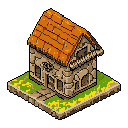
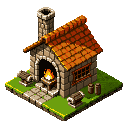
Bastion 10.4 : textes anglais et coréens, tests unitaires (démarrage, bulles, absence, navigation, images)
Claude-Session: https://claude.ai/code/session_0134j7sWg9jhpiCd4bBgd6QN

diff --git a/tests/v1040-bastion.test.js b/tests/v1040-bastion.test.js
@@ -1,0 +1,201 @@
+// v10.4 (partie 6) : le Bastion — le trouver (sous Équipe), le lancer (meilleurs ouvriers posés, chantier offert, une
+// seule fois, sauvegarde 10.3 au Bastion vide comprise), bulles par bâtiment, « Pendant ton absence » et
+// « Tout récupérer », et chaque illustration référencée présente sur le disque.
+import test from 'node:test';
+import assert from 'node:assert/strict';
+import { existsSync, readFileSync } from 'node:fs';
+import { createNewState, sanitizeState } from '../src/core/state.js';
+import { bastionOf, bastionTick, buildingLevel, startBuild, workerBonus } from '../src/core/bastion.js';
+import {
+  GIFT_MINUTES, awayReport, bastionUnused, collectAway, kickoffBastion, markTip, needsKickoff, noteAway, placedLine, tipSeen, tradeWord,
+} from '../src/core/bastion-start.js';
+import { BUILDINGS, RESEARCH } from '../src/data/bastion.js';
+import { MENUS, SUB_LABELS, navPath } from '../src/ui/nav.js';
+
+const T0 = Date.UTC(2026, 10, 21, 9);
+const HOUR = 3_600_000;
+const MIN = 60_000;
+// La partie du joueur : étape 186, 17 compagnons libres, Bastion jamais utilisé.
+const MANY = ['dwarf', 'pyromancer', 'barbarian', 'demon_queen', 'priestess', 'witch', 'high_priest', 'ranger', 'shadow', 'ninja', 'squire', 'lancer', 'azure_paladin', 'mercenary', 'rose_blade', 'elf_archer', 'archangel', 'ice_empress', 'sylvan_guardian', 'shadow_lord'];
+function player(stage = 186, allies = MANY) {
+  const s = createNewState(T0, 3);
+  s.maxStage = stage; s.stage = stage; s.records.bestStage = stage;
+  for (const id of allies) s.companions.owned[id] = { stars: 1, level: 1 };
+  s.companions.equipped = allies.slice(-3);
+  bastionTick(s, T0);
+  s.gold = 1e30; s.materials.shards = 1e6;
+  return s;
+}
+
+test('navigation : le Bastion est sous Équipe (Compagnons · Bastion · Expéditions), plus dans Profil', () => {
+  const team = MENUS.find((m) => m.id === 'team');
+  assert.deepEqual(team.tabs, ['companions', 'camp', 'expeditions']);
+  assert.equal(MENUS.find((m) => m.id === 'profile').tabs.includes('camp'), false);
+  assert.equal(MENUS.filter((m) => m.tabs.includes('camp')).length, 1);
+  assert.equal(SUB_LABELS.camp, 'Bastion');
+  assert.equal(navPath('camp'), 'Équipe › Bastion');
+  const ui = readFileSync(new URL('../src/ui/page.js', import.meta.url), 'utf8');
+  assert.match(ui, /PAGE_TABS = new Set\(\[[^\]]*'camp'/, 'le Bastion s\'ouvre en page plein écran');
+});
+
+test('démarrage : les meilleurs ouvriers selon le métier et la rareté, puis le chantier offert (15 min)', () => {
+  const s = player();
+  assert.ok(needsKickoff(s));
+  const gold = s.gold, shards = s.materials.shards;
+  const k = kickoffBastion(s, T0 + 1000);
+  assert.ok(k);
+  // Étape 186, Bastion niveau 1 : 2 places ; la Forge (construite) et la Bibliothèque (à construire) sont ouvertes.
+  assert.deepEqual(k.placed.map((p) => p.building), ['forge', 'library']);
+  const forge = k.placed.find((p) => p.building === 'forge');
+  assert.equal(forge.companionId, 'demon_queen', 'forgeronne légendaire : +40 %');
+  assert.equal(forge.pct, 40);
+  assert.equal(placedLine(forge), 'Reine démone, forgeronne : +40 %');
+  assert.equal(k.placed.find((p) => p.building === 'library').companionId, 'archangel');
+  // Aucun ouvrier possible ne ferait mieux que celui qui a été posé.
+  for (const p of k.placed) {
+    const best = MANY.filter((id) => !s.companions.equipped.includes(id)).map((id) => workerBonus(s, id, p.building).totalPct);
+    assert.equal(p.pct, Math.max(...best));
+  }
+  const b = bastionOf(s);
+  assert.equal(b.buildings.forge.worker, 'demon_queen');
+  // Chantier offert : la Bibliothèque (premier chantier, 15 min), sans rien payer.
+  assert.deepEqual({ building: k.build.building, level: k.build.level, ms: k.build.ms }, { building: 'library', level: 1, ms: GIFT_MINUTES * MIN });
+  assert.equal(GIFT_MINUTES, 15);
+  assert.ok(b.buildings.library.build);
+  assert.equal(s.gold, gold); assert.equal(s.materials.shards, shards);
+  // Une seule fois.
+  assert.equal(needsKickoff(s), false);
+  assert.equal(kickoffBastion(s, T0 + 2000), null);
+  bastionTick(s, T0 + 1000 + 15 * MIN);
+  assert.equal(buildingLevel(s, 'library'), 1);
+  // Même vidé ensuite, le Bastion ne se relance pas tout seul.
+  b.buildings.forge.worker = null; b.buildings.library.worker = null;
+  assert.equal(kickoffBastion(s, T0 + 20 * MIN), null);
+});
+
+test('démarrage : nouveau joueur à l\'étape 40 (Forge seule) — un ouvrier, chantier de la Forge ramené à 15 min', () => {
+  const s = player(40, ['dwarf', 'squire', 'priestess', 'ranger', 'mercenary']);
+  const k = kickoffBastion(s, T0);
+  assert.equal(k.placed.length, 1);
+  assert.equal(k.placed[0].companionId, 'dwarf');
+  assert.equal(placedLine(k.placed[0]), 'Nain guerrier, forgeron : +25 %');
+  assert.equal(k.build.building, 'forge');
+  assert.equal(k.build.ms, 15 * MIN);
+});
+
+test('démarrage : sans compagnon libre, rien n\'est marqué (on réessaiera à la prochaine ouverture)', () => {
+  const s = player(60, ['dwarf', 'squire']);
+  s.companions.equipped = ['dwarf', 'squire'];
+  assert.equal(kickoffBastion(s, T0), null);
+  assert.ok(needsKickoff(s));
+  s.companions.equipped = ['squire'];
+  assert.ok(kickoffBastion(s, T0 + 1000));
+});
+
+test('démarrage : une sauvegarde 10.3 au Bastion vide (ouvert, jamais utilisé) le reçoit aussi ; une partie déjà lancée non', () => {
+  const s = player();
+  const old = JSON.parse(JSON.stringify(s));
+  delete old.bastion.kicked; delete old.bastion.tips; delete old.bastion.away; // champs 10.4 absents
+  const loaded = sanitizeState(old, undefined, T0 + HOUR);
+  assert.ok(bastionUnused(loaded));
+  assert.ok(needsKickoff(loaded));
+  assert.ok(kickoffBastion(loaded, T0 + HOUR));
+  // Sauvegarde/chargement : le démarrage n'est pas refait.
+  const again = sanitizeState(JSON.parse(JSON.stringify(loaded)), undefined, T0 + 2 * HOUR);
+  assert.ok(bastionOf(again).kicked > 0);
+  assert.equal(needsKickoff(again), false);
+  // Une partie 10.3 qui s'est déjà servie du Bastion ne reçoit rien.
+  const used = player();
+  bastionOf(used).buildings.forge.worker = 'dwarf';
+  startBuild(used, 'forge', T0);
+  assert.equal(needsKickoff(used), false);
+  assert.equal(kickoffBastion(used, T0), null);
+});
+
+test('bulles : une par bâtiment, une seule fois, gardée dans la sauvegarde', () => {
+  const s = player();
+  assert.equal(tipSeen(s, 'forge'), false);
+  markTip(s, 'forge'); markTip(s, 'forge'); markTip(s, 'nope');
+  assert.deepEqual(bastionOf(s).tips, ['forge']);
+  const back = sanitizeState(JSON.parse(JSON.stringify(s)), undefined, T0 + HOUR);
+  assert.ok(tipSeen(back, 'forge'));
+  assert.equal(tipSeen(back, 'library'), false);
+});
+
+test('« Pendant ton absence » : chantiers finis illustrés, objets commandés livrés, recherches finies ; « Tout récupérer »', () => {
+  const s = player();
+  kickoffBastion(s, T0);
+  bastionTick(s, T0 + 20 * MIN); // la Bibliothèque est construite pendant que le joueur regarde : pas de rapport
+  assert.equal(awayReport(s), null);
+  const b = bastionOf(s);
+  // Recherche et commande lancées, puis le jeu est fermé 3 h.
+  b.research.active.push({ id: 'sharp', left: 10 * MIN, total: 10 * MIN, level: 1 });
+  b.orders.push({ id: 1, slot: 'armor', tier: 'rare', left: HOUR, total: HOUR, ready: false, item: null });
+  b.nextOrder = 2;
+  assert.ok(startBuild(s, 'forge', T0 + 20 * MIN));
+  const events = bastionTick(s, T0 + 20 * MIN + 3 * HOUR, { away: true });
+  assert.ok(noteAway(s, events, T0 + 3 * HOUR));
+  const r = awayReport(s);
+  assert.deepEqual(r.builds.map((x) => [x.ref, x.level]), [['forge', 2]]);
+  assert.deepEqual(r.research.map((x) => [x.ref, x.level]), [['sharp', 1]]);
+  assert.equal(r.items.length, 1);
+  assert.equal(r.items[0].slot, 'armor');
+  assert.ok(s.lootBag.some((i) => i.id === r.items[0].ref), 'l\'objet commandé est dans le coffre de butin');
+  // Le rapport survit à une sauvegarde.
+  const back = sanitizeState(JSON.parse(JSON.stringify(s)), undefined, T0 + 4 * HOUR);
+  assert.equal(awayReport(back).builds.length, 1);
+  // « Tout récupérer » : nouvelles lues, rapport vidé.
+  assert.ok(b.news.length > 0);
+  const got = collectAway(s, T0 + 3 * HOUR + 21 * MIN);
+  assert.equal(awayReport(s), null);
+  assert.equal(b.news.filter((n) => !n.book).length, 0);
+  assert.ok(got && typeof got.resources === 'object');
+});
+
+test('« Tout récupérer » verse les stocks de la Mine et du Camp d\'entraînement', () => {
+  const s = player();
+  const b = bastionOf(s);
+  b.buildings.library.level = 1; b.buildings.mine.level = 2; b.buildings.training.level = 2;
+  b.stock.mine = 37.6; b.stock.training = 1.2;
+  b.away = { at: T0, list: [{ kind: 'build', ref: 'mine', level: 2 }] };
+  const r = awayReport(s);
+  assert.deepEqual(r.stock.map((x) => [x.id, x.amount]), [['mine', 37], ['training', 1]]);
+  const before = { shards: s.materials.shards, grimoire: s.materials.grimoire ?? 0 };
+  const got = collectAway(s, T0);
+  assert.equal(got.resources.shards, 37);
+  assert.equal(s.materials.shards, before.shards + 37);
+  assert.equal(s.materials.grimoire, before.grimoire + 1);
+});
+
+test('métiers accordés : forgeronne, savante, mineuse…', () => {
+  assert.equal(tradeWord('demon_queen'), 'forgeronne');
+  assert.equal(tradeWord('dwarf'), 'forgeron');
+  assert.equal(tradeWord('priestess'), 'savante');
+  assert.equal(tradeWord('ice_empress'), 'mineuse');
+});
+
+test('illustrations : chaque image référencée par le Bastion existe sur le disque (assets/ui/art104)', async () => {
+  const root = new URL('..', import.meta.url);
+  const has = (p) => existsSync(new URL(p, root));
+  const { BASTION_FX } = await import('../src/ui/bastion-art.js');
+  const files = ['bastion_map', 'bastion_site', 'bastion_away', 'scene_tower', 'bastion_expeditions', 'bastion_expeditions_locked',
+    ...BUILDINGS.filter((d) => !d.existing).flatMap((d) => [1, 4, 8].map((lv) => `bastion_${d.id}_lv${lv}`).concat(`bastion_${d.id}_locked`)),
+    ...['smith', 'scholar', 'miner', 'trainer', 'merchant'].map((t) => `trade_${t}`),
+    ...['combat', 'team', 'economy'].map((b) => `research_branch_${b}`),
+    ...Object.keys(BASTION_FX)];
+  // Nœuds des recherches : un dessin par recherche, tous différents.
+  const src = readFileSync(new URL('../src/ui/panels/camp.js', import.meta.url), 'utf8');
+  const map = Object.fromEntries([...src.matchAll(/(\w+): '(\w+)'/g)].filter(([, k]) => RESEARCH.some((r) => r.id === k)).map(([, k, v]) => [k, v]));
+  assert.equal(Object.keys(map).length, RESEARCH.length);
+  assert.equal(new Set(Object.values(map)).size, RESEARCH.length);
+  for (const v of Object.values(map)) files.push(`research_node_${v}`);
+  const missing = files.filter((f) => !has(`assets/ui/art104/${f}.png`));
+  assert.deepEqual(missing, []);
+  // Toute image « assets/ui/art104/… » écrite dans le code du Bastion existe.
+  for (const f of ['src/ui/panels/camp.js', 'src/ui/bastion-away.js', 'index.html', 'src/ui/bastion-cards.js']) {
+    const text = readFileSync(new URL(f, root), 'utf8');
+    for (const [m] of text.matchAll(/assets\/ui\/art104\/[\w-]+\.png/g)) assert.ok(has(m), m);
+  }
+  // Le Bastion n'utilise plus les dessins faits par script (art103/b_*, tool_*).
+  assert.doesNotMatch(src, /art103/);
+});

diff --git a/src/i18n/en-1040-bastion.js b/src/i18n/en-1040-bastion.js
@@ -1,0 +1,52 @@
+// v10.4 (partie 6) : anglais des nouveaux textes du Bastion (page plein écran, démarrage, tour, « Pendant ton absence »).
+// Branché à la fin de ./en.js (noms d'import uniques : EXACT_1040_BASTION, patterns1040Bastion).
+let LK = () => null;
+const L = (s) => LK(s) ?? s;
+const TRADE = { forgeron: 'smith', forgeronne: 'smith', savant: 'scholar', savante: 'scholar', mineur: 'miner', mineuse: 'miner', 'entraîneur': 'trainer', 'entraîneuse': 'trainer', marchand: 'merchant', marchande: 'merchant', ouvrier: 'worker' };
+
+export const EXACT_1040_BASTION = {
+  'Carte': 'Map',
+  'Commandes': 'Orders',
+  'Commander': 'Order',
+  'Lancer': 'Start',
+  'Améliorer': 'Upgrade',
+  'Construire': 'Build',
+  'Compris': 'Got it',
+  'Prête': 'Ready',
+  'Livré au coffre': 'In the loot chest',
+  'Livré dans le coffre de butin': 'Delivered to the loot chest',
+  'Pendant ton absence': 'While you were away',
+  'Tout récupérer': 'Collect all',
+  'Ton Bastion se met au travail': 'Your Bastion gets to work',
+  'Gardées après les Renaissances.': 'Kept through Rebirths.',
+  'Aucun ouvrier : à l\'arrêt': 'No worker: at a standstill',
+  'Aucun compagnon libre': 'No free companion',
+  'Construis la Bibliothèque': 'Build the Library',
+  'Ouvriers posés / places': 'Workers placed / slots',
+  'Niveau du Bastion : somme des niveaux': 'Bastion level: sum of the levels',
+  'Retour au combat': 'Back to the fight',
+  'Le Bastion ouvre ses portes : Équipe › Bastion': 'The Bastion opens its gates: Team › Bastion',
+  'Tes compagnons libres construisent et cherchent pour toi, même jeu fermé.': 'Your free companions build and research for you, even with the game closed.',
+  '5 compagnons': '5 companions',
+};
+
+export const patterns1040Bastion = (lookup = () => null) => { LK = lookup; return [
+  // « Reine démone, forgeronne : +40 % »
+  [/^(.+), (forgeronne?|savante?|mineur|mineuse|entraîneur|entraîneuse|marchande?|ouvrier) : \+(\d+) %$/, (m) => `${L(m[1])}, ${TRADE[m[2]]}: +${m[3]}%`],
+  [/^Chantier offert : (.+), (.+)$/, (m) => `Free building work: ${L(m[1])}, ${L(m[2])}`],
+  [/^Après : (.+)$/, (m) => `After: ${L(m[1])}`],
+  [/^Bastion niv\. (\d+)$/, (m) => `Bastion lv. ${m[1]}`],
+  [/^Chantier : niv\. (\d+) → (\d+)$/, (m) => `Building work: lv. ${m[1]} → ${m[2]}`],
+  [/^Niv\. (\d+) → (\d+)$/, (m) => `Lv. ${m[1]} → ${m[2]}`],
+  [/^Niv\. (\d+) ·$/, (m) => `Lv. ${m[1]} ·`],
+  [/^Places prises \((\d+)\)$/, (m) => `Slots taken (${m[1]})`],
+  [/^Recherches (\d+)\/(\d+)$/, (m) => `Research ${m[1]}/${m[2]}`],
+  [/^Bastion : (\d+) à voir$/, (m) => `Bastion: ${m[1]} to see`],
+  [/^(.+) · à l'arrêt$/, (m) => `${L(m[1])} · at a standstill`],
+  [/^(.+) sans bonus$/, (m) => `${L(m[1])} without bonus`],
+  [/^Métier conseillé : (.+) \(\+(\d+) %\)$/, (m) => `Best trade: ${L(m[1])} (+${m[2]}%)`],
+  [/^(.+) par heure$/, (m) => `${L(m[1])} per hour`],
+  [/^(.+) par jour$/, (m) => `${L(m[1])} per day`],
+  [/^([\d,]+) (éclats|grimoires)$/, (m) => `${m[1].replace(',', '.')} ${m[2] === 'éclats' ? 'shards' : 'grimoires'}`],
+  [/^(Forge du forgeron|Bibliothèque|Mine de cristal|Camp d'entraînement|Comptoir|Expéditions) : (.+)$/, (m) => `${L(m[1])}: ${L(m[2])}`],
+]; };

diff --git a/src/i18n/ko-1040-bastion.js b/src/i18n/ko-1040-bastion.js
@@ -1,0 +1,51 @@
+// v10.4 (partie 6) : coréen des nouveaux textes du Bastion (page plein écran, démarrage, tour, « Pendant ton absence »).
+// Branché à la fin de ./ko.js (noms d'import uniques : EXACT_1040_BASTION, patterns1040Bastion).
+let LK = () => null;
+const L = (s) => LK(s) ?? s;
+const TRADE = { forgeron: '대장장이', forgeronne: '대장장이', savant: '학자', savante: '학자', mineur: '광부', mineuse: '광부', 'entraîneur': '교관', 'entraîneuse': '교관', marchand: '상인', marchande: '상인', ouvrier: '일꾼' };
+
+export const EXACT_1040_BASTION = {
+  'Carte': '지도',
+  'Commandes': '주문',
+  'Commander': '주문하기',
+  'Lancer': '시작',
+  'Améliorer': '강화',
+  'Construire': '건설',
+  'Compris': '알겠어',
+  'Prête': '준비 완료',
+  'Livré au coffre': '전리품 상자로 배달',
+  'Livré dans le coffre de butin': '전리품 상자로 배달됨',
+  'Pendant ton absence': '자리를 비운 동안',
+  'Tout récupérer': '모두 받기',
+  'Ton Bastion se met au travail': '요새가 일을 시작해',
+  'Gardées après les Renaissances.': '환생 후에도 유지돼.',
+  'Aucun ouvrier : à l\'arrêt': '일꾼 없음: 멈춤',
+  'Aucun compagnon libre': '쉬는 동료 없음',
+  'Construis la Bibliothèque': '도서관을 지어',
+  'Ouvriers posés / places': '배치한 일꾼 / 자리',
+  'Niveau du Bastion : somme des niveaux': '요새 레벨: 건물 레벨의 합',
+  'Retour au combat': '전투로 돌아가기',
+  'Le Bastion ouvre ses portes : Équipe › Bastion': '요새가 문을 엽니다: 팀 › 요새',
+  'Tes compagnons libres construisent et cherchent pour toi, même jeu fermé.': '쉬는 동료들이 게임을 꺼도 대신 짓고 연구해.',
+  '5 compagnons': '동료 5명',
+};
+
+export const patterns1040Bastion = (lookup = () => null) => { LK = lookup; return [
+  [/^(.+), (forgeronne?|savante?|mineur|mineuse|entraîneur|entraîneuse|marchande?|ouvrier) : \+(\d+) %$/, (m) => `${L(m[1])}, ${TRADE[m[2]]}: +${m[3]}%`],
+  [/^Chantier offert : (.+), (.+)$/, (m) => `무료 공사: ${L(m[1])}, ${L(m[2])}`],
+  [/^Après : (.+)$/, (m) => `${L(m[1])} 이후`],
+  [/^Bastion niv\. (\d+)$/, (m) => `요새 Lv.${m[1]}`],
+  [/^Chantier : niv\. (\d+) → (\d+)$/, (m) => `공사: Lv.${m[1]} → ${m[2]}`],
+  [/^Niv\. (\d+) → (\d+)$/, (m) => `Lv.${m[1]} → ${m[2]}`],
+  [/^Niv\. (\d+) ·$/, (m) => `Lv.${m[1]} ·`],
+  [/^Places prises \((\d+)\)$/, (m) => `자리 꽉 참 (${m[1]})`],
+  [/^Recherches (\d+)\/(\d+)$/, (m) => `연구 ${m[1]}/${m[2]}`],
+  [/^Bastion : (\d+) à voir$/, (m) => `요새: 확인할 것 ${m[1]}개`],
+  [/^(.+) · à l'arrêt$/, (m) => `${L(m[1])} · 멈춤`],
+  [/^(.+) sans bonus$/, (m) => `보너스 없이 ${L(m[1])}`],
+  [/^Métier conseillé : (.+) \(\+(\d+) %\)$/, (m) => `추천 직업: ${L(m[1])} (+${m[2]}%)`],
+  [/^(.+) par heure$/, (m) => `시간당 ${L(m[1])}`],
+  [/^(.+) par jour$/, (m) => `하루 ${L(m[1])}`],
+  [/^([\d,]+) (éclats|grimoires)$/, (m) => `${m[2] === 'éclats' ? '파편' : '마법서'} ${m[1].replace(',', '.')}`],
+  [/^(Forge du forgeron|Bibliothèque|Mine de cristal|Camp d'entraînement|Comptoir|Expéditions) : (.+)$/, (m) => `${L(m[1])}: ${L(m[2])}`],
+]; };

diff --git a/src/i18n/en.js b/src/i18n/en.js
@@ -2084,3 +2084,7 @@ PATTERNS.unshift(...patterns1031Arena(lookup));
 import { EXACT_1031_CHEST, patterns1031Chest } from './en-1031-chest.js';
 for (const [k, v] of Object.entries(EXACT_1031_CHEST)) if (!Object.hasOwn(EXACT, k)) EXACT[k] = v;
 PATTERNS.unshift(...patterns1031Chest());
+// v10.4 (partie 6) : le Bastion en page, démarrage, tour, « Pendant ton absence » (./en-1040-bastion.js).
+import { EXACT_1040_BASTION, patterns1040Bastion } from './en-1040-bastion.js';
+for (const [k, v] of Object.entries(EXACT_1040_BASTION)) if (!Object.hasOwn(EXACT, k)) EXACT[k] = v;
+PATTERNS.push(...patterns1040Bastion(lookup));

diff --git a/src/i18n/ko.js b/src/i18n/ko.js
@@ -439,3 +439,7 @@ PATTERNS.unshift(...patterns1031Arena(lookup));
 import { EXACT_1031_CHEST, patterns1031Chest } from './ko-1031-chest.js';
 for (const [k, v] of Object.entries(EXACT_1031_CHEST)) if (!Object.hasOwn(EXACT, k)) EXACT[k] = v;
 PATTERNS.unshift(...patterns1031Chest());
+// v10.4 (partie 6) : le Bastion en page, démarrage, tour, « Pendant ton absence » (./ko-1040-bastion.js).
+import { EXACT_1040_BASTION, patterns1040Bastion } from './ko-1040-bastion.js';
+for (const [k, v] of Object.entries(EXACT_1040_BASTION)) if (!Object.hasOwn(EXACT, k)) EXACT[k] = v;
+PATTERNS.push(...patterns1040Bastion(lookup));

diff --git a/tools/art/pl104_bastion.py b/tools/art/pl104_bastion.py
@@ -78,14 +78,14 @@ ART = {
 }
 # Niveaux 4 et 8 : depuis le niveau 1 (bitforge, image de départ), le même bâtiment agrandi.
 LEVELS = {
-    'forge': ('a bigger blacksmith forge with two furnaces, a stone extension, iron roof details, more anvils and a weapon rack', 'a grand dwarven forge hall: tall stone walls, a large chimney with fire, golden trims, big glowing furnace, many weapons displayed'),
+    'forge': ('a medium blacksmith forge with an orange tiled roof, a stone chimney with smoke, a glowing orange furnace in the open front, two anvils and a weapon rack', 'a large blacksmith forge hall with red tiled roofs, two big stone chimneys with fire, a huge glowing orange furnace in the open front, golden trims, an anvil and a weapon rack outside'),
     'library': ('a taller stone library with two towers, more arched windows, a balcony', 'a grand wizard library with three towers, golden domes, stained glass windows, floating glowing books'),
     'mine': ('a larger mine with a wooden lift tower, two carts and more glowing crystals', 'a huge crystal mine with a big wooden headframe tower, rails, many large glowing cyan and purple crystals'),
     'training': ('a bigger training yard with a stone wall, more dummies, archery targets and a banner', 'a grand training arena with stone walls, banners, an archery range, dummies and a small barracks building'),
-    'trade': ('a larger merchant post: a wooden shop building with a sign, an awning, many crates and a cart', 'a grand market hall with a stone base, colourful awnings, gold sign, many goods, a warehouse'),
+    'trade': ('a larger merchant post: a wooden shop building with a sign, an awning, many crates and a cart', 'a big two story merchant market hall of wood and stone with red and white striped awnings, a golden coin sign, many crates, barrels and sacks, a cart in front'),
 }
 # Force de l'image de départ (bitforge) : trop haute, le bâtiment ne change pas (Forge, 1er essai à 380/260).
-STRENGTH = {'forge': (170, 110), 'trade': (380, 150)}
+STRENGTH = {'forge': (0, 0), 'trade': (380, 0)}  # 0 : dessiné à neuf (pixflux), palette du niveau 1
 for b, (l4, l8) in LEVELS.items():
     s4, s8 = STRENGTH.get(b, (380, 260))
     ART[f'bastion_{b}_lv4'] = ((128, 128), BUILDING_VIEW + l4, True, 80 + len(b), f'bastion_{b}_lv1', s4)
@@ -169,7 +169,11 @@ def gen_image(name, seed=None):
     size, desc, transp, seed0 = spec[:4]
     body = {'description': desc + (T if transp else STYLE), 'image_size': {'width': size[0], 'height': size[1]}, 'no_background': transp,
             'seed': seed if seed is not None else seed0, 'outline': 'single color black outline', 'shading': 'medium shading', 'detail': 'highly detailed'}
-    if len(spec) > 4:  # niveau 4 ou 8 : part du niveau 1 (même angle, même palette)
+    if len(spec) > 4 and spec[5] == 0:  # dessiné à neuf, mais avec la palette du niveau 1
+        base = Image.open(os.path.join(RAW, spec[4] + '.png')).convert('RGBA')
+        body['color_image'] = b64(base)
+        im = first_image(wait(_req('POST', '/create-image-pixflux', body)))
+    elif len(spec) > 4:  # niveau 4 ou 8 : part du niveau 1 (même angle, même palette)
         base = Image.open(os.path.join(RAW, spec[4] + '.png')).convert('RGBA')
         body.update({'init_image': b64(base), 'init_image_strength': spec[5], 'color_image': b64(base)})
         im = first_image(wait(_req('POST', '/create-image-bitforge', body)))
@@ -299,8 +303,8 @@ def build():
         if k > 1:
             im = im.resize((im.width * k, im.height * k), Image.NEAREST)
         im.save(os.path.join(DST, f))
-        if name.startswith('bastion_') and name.endswith('_lv1'):
-            silhouette(im).save(os.path.join(DST, name.replace('_lv1', '_locked') + '.png'))
+        if name.startswith('bastion_') and (name.endswith('_lv1') or name == 'bastion_expeditions'):
+            silhouette(im).save(os.path.join(DST, name.replace('_lv1', '') + '_locked.png'))
     sheets = {}
     for name in EFFECTS:
         if os.path.exists(os.path.join(VFX, name + '.png')):
